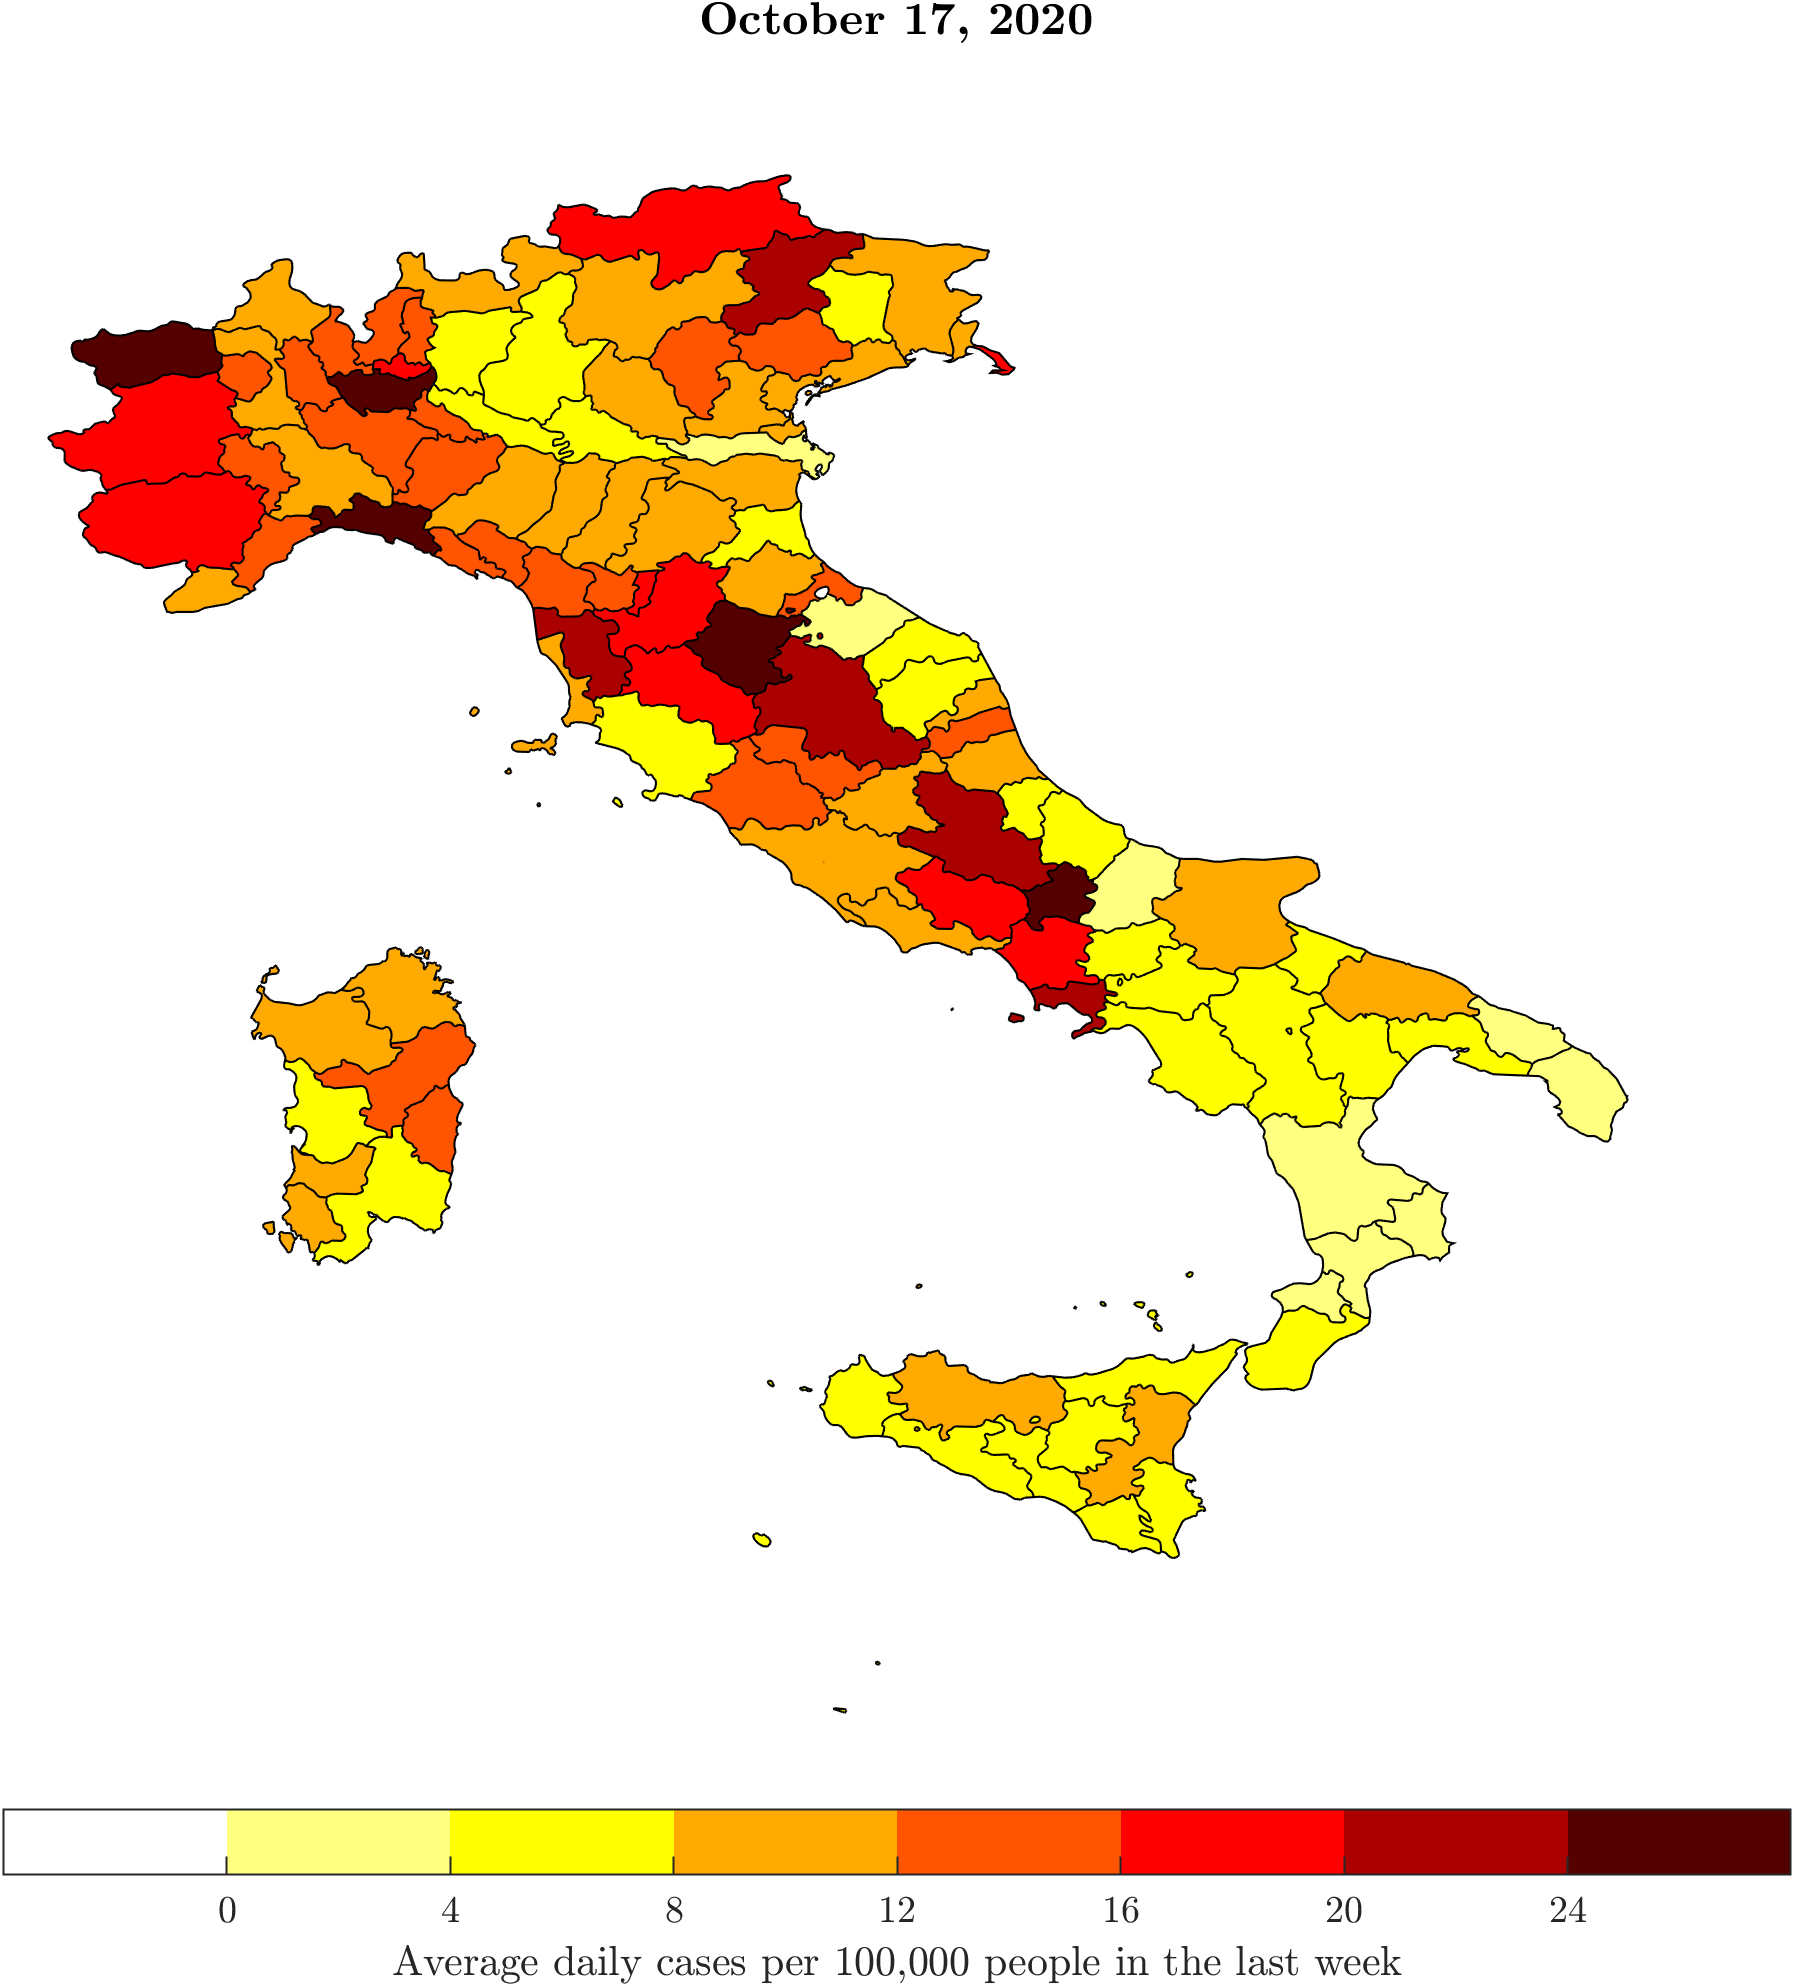
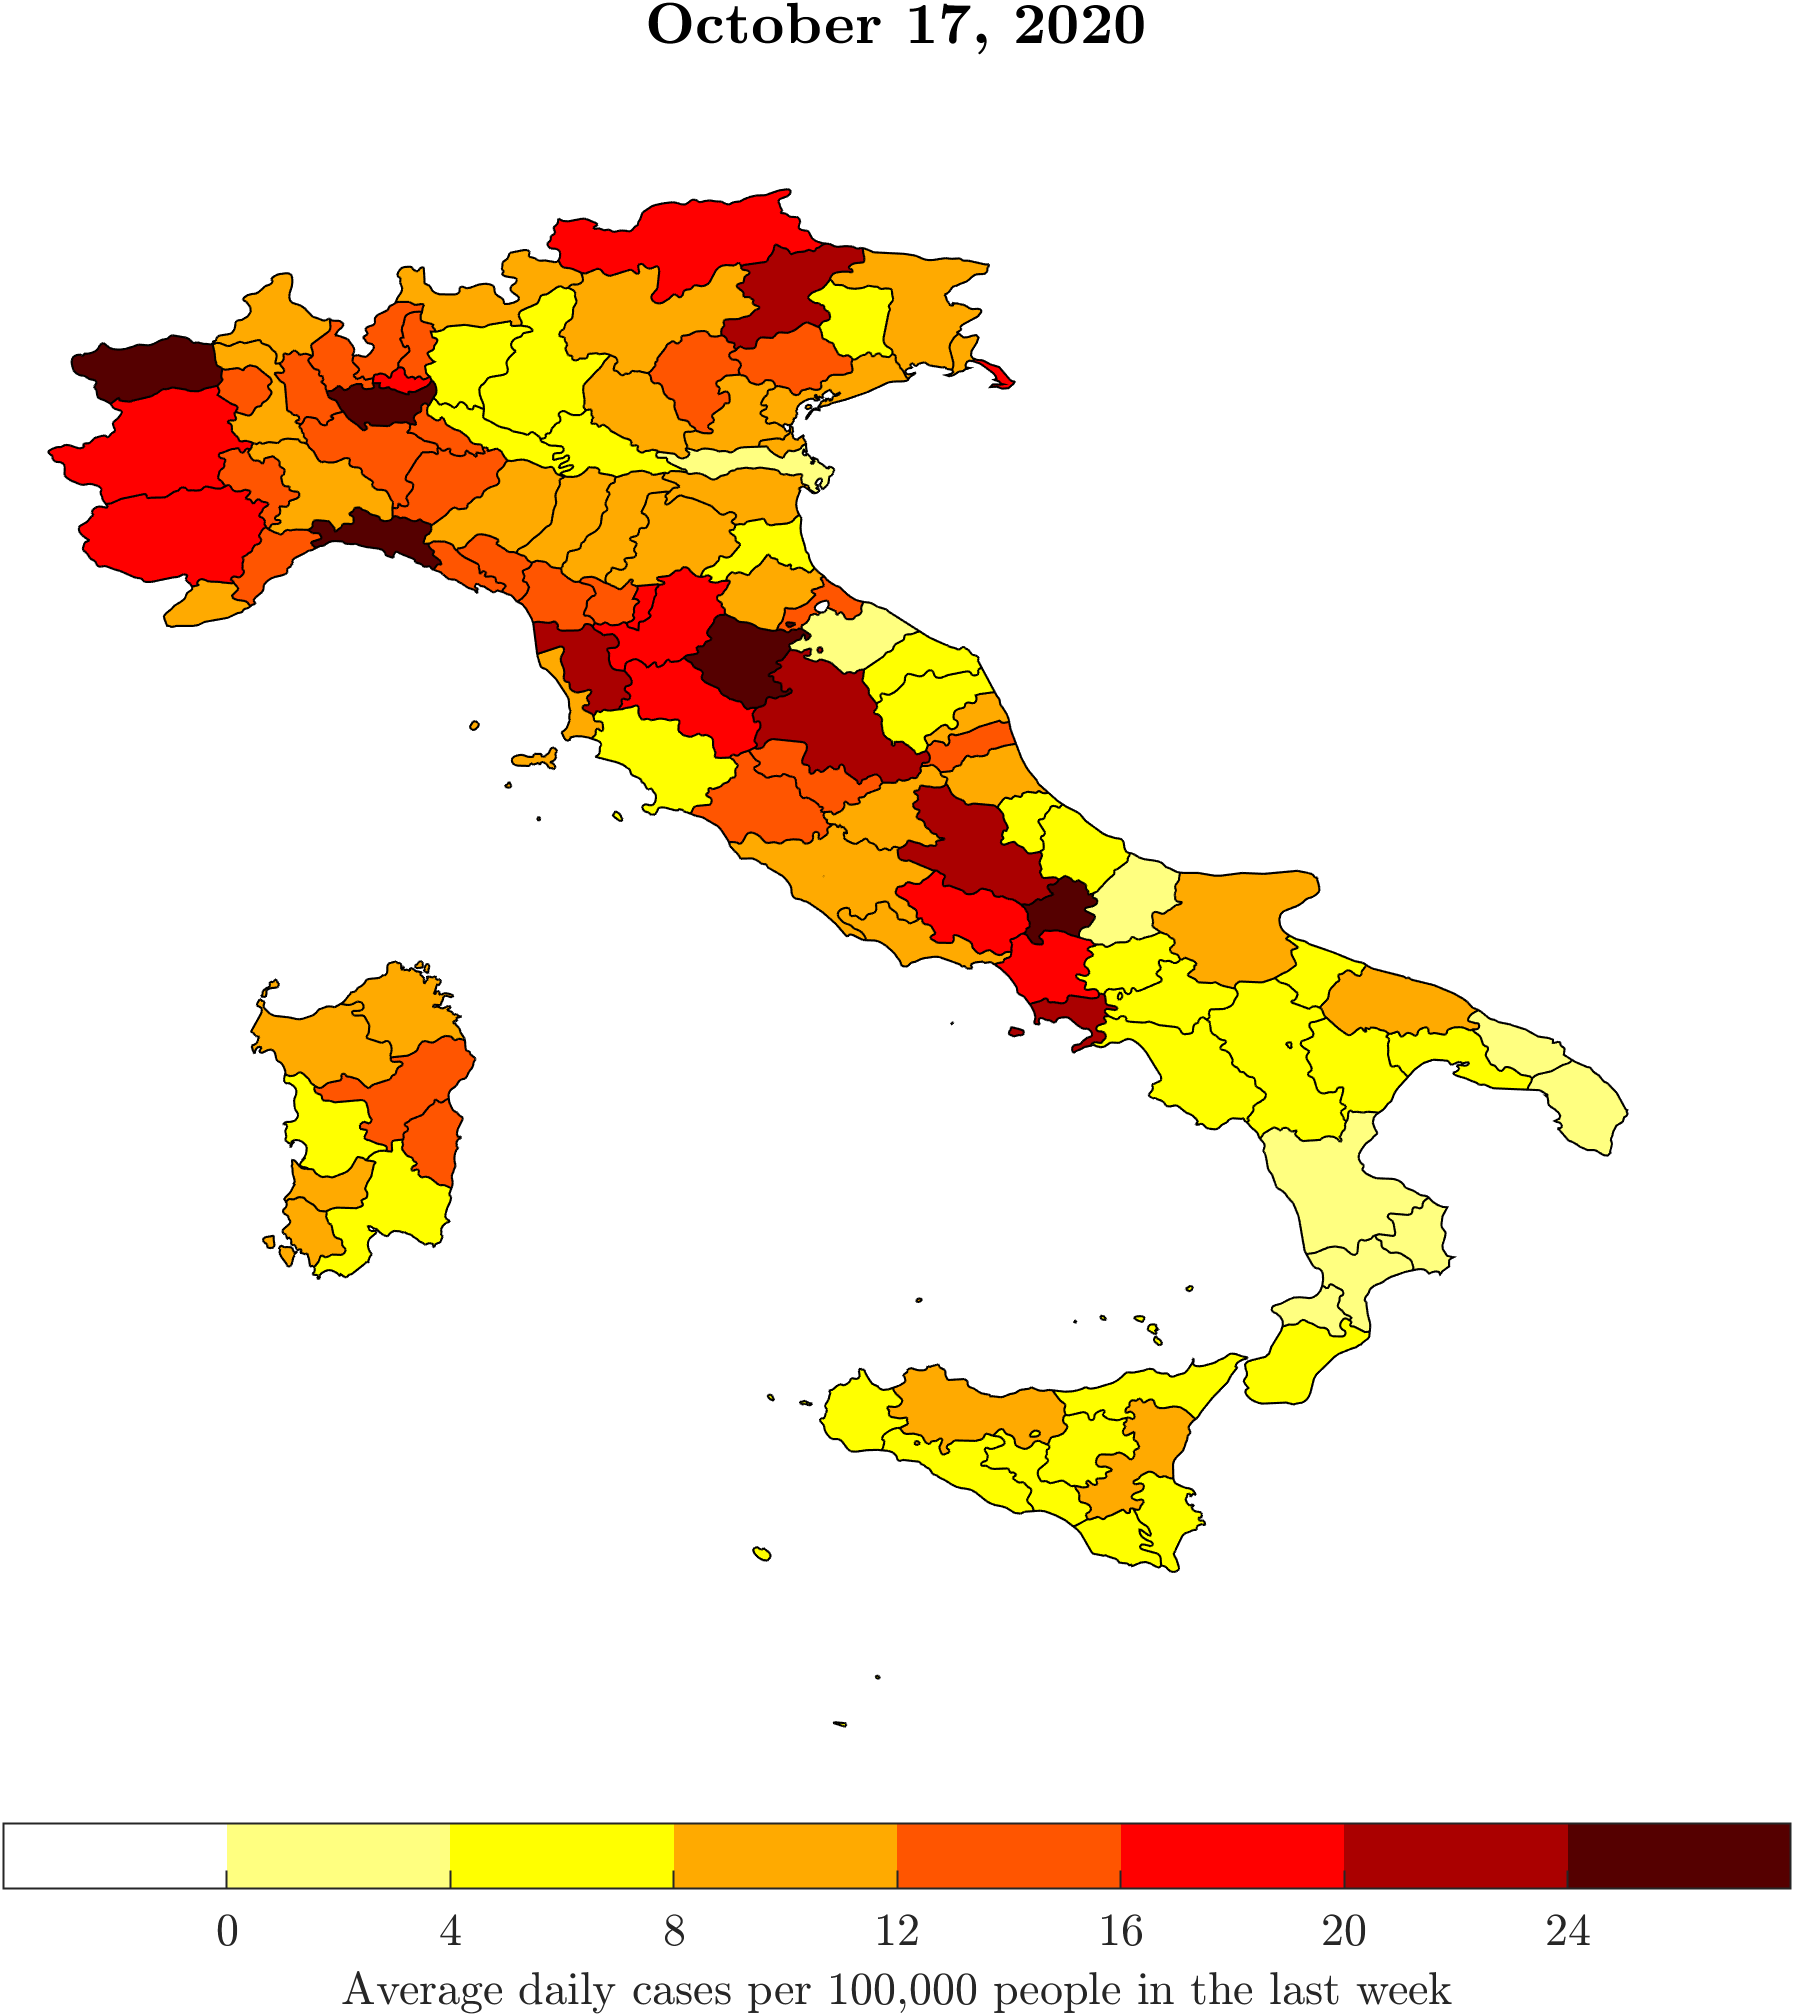
Integer fig size in points

diff --git a/matlab/main_covid_hotspots.m b/matlab/main_covid_hotspots.m
@@ -25,8 +25,8 @@ n_provs = size(prov_names, 1);     % Number of provinces
 % Get date
 
 % first_day_back = datetime('01-07-2020', 'InputFormat', 'dd-MM-yyyy');
-first_day_back = datetime('16-10-2020', 'InputFormat', 'dd-MM-yyyy');
-last_day_back = datetime('16-10-2020', 'InputFormat', 'dd-MM-yyyy');
+first_day_back = datetime('17-10-2020', 'InputFormat', 'dd-MM-yyyy');
+last_day_back = datetime('17-10-2020', 'InputFormat', 'dd-MM-yyyy');
 n_days_back = days(last_day_back - first_day_back);
 for days_back = 0:n_days_back
 
@@ -159,7 +159,7 @@ upp_level = 24.;
 map_folder = '../geo/';
 load(join([map_folder, 'regions_and_provinces_map.mat']));
 
-position_left = [0.576, 30.5856, 574.848, 555.5952];
+position_left = [1, 31, 575, 556];
 % position_left = [1.768, 41.7808, 766.464, 740.7936];
 % position_left = [0.0005, 0.0472, 0.4990, 0.8574];
 f_reg = figure('units', 'points', 'Position', position_left);
